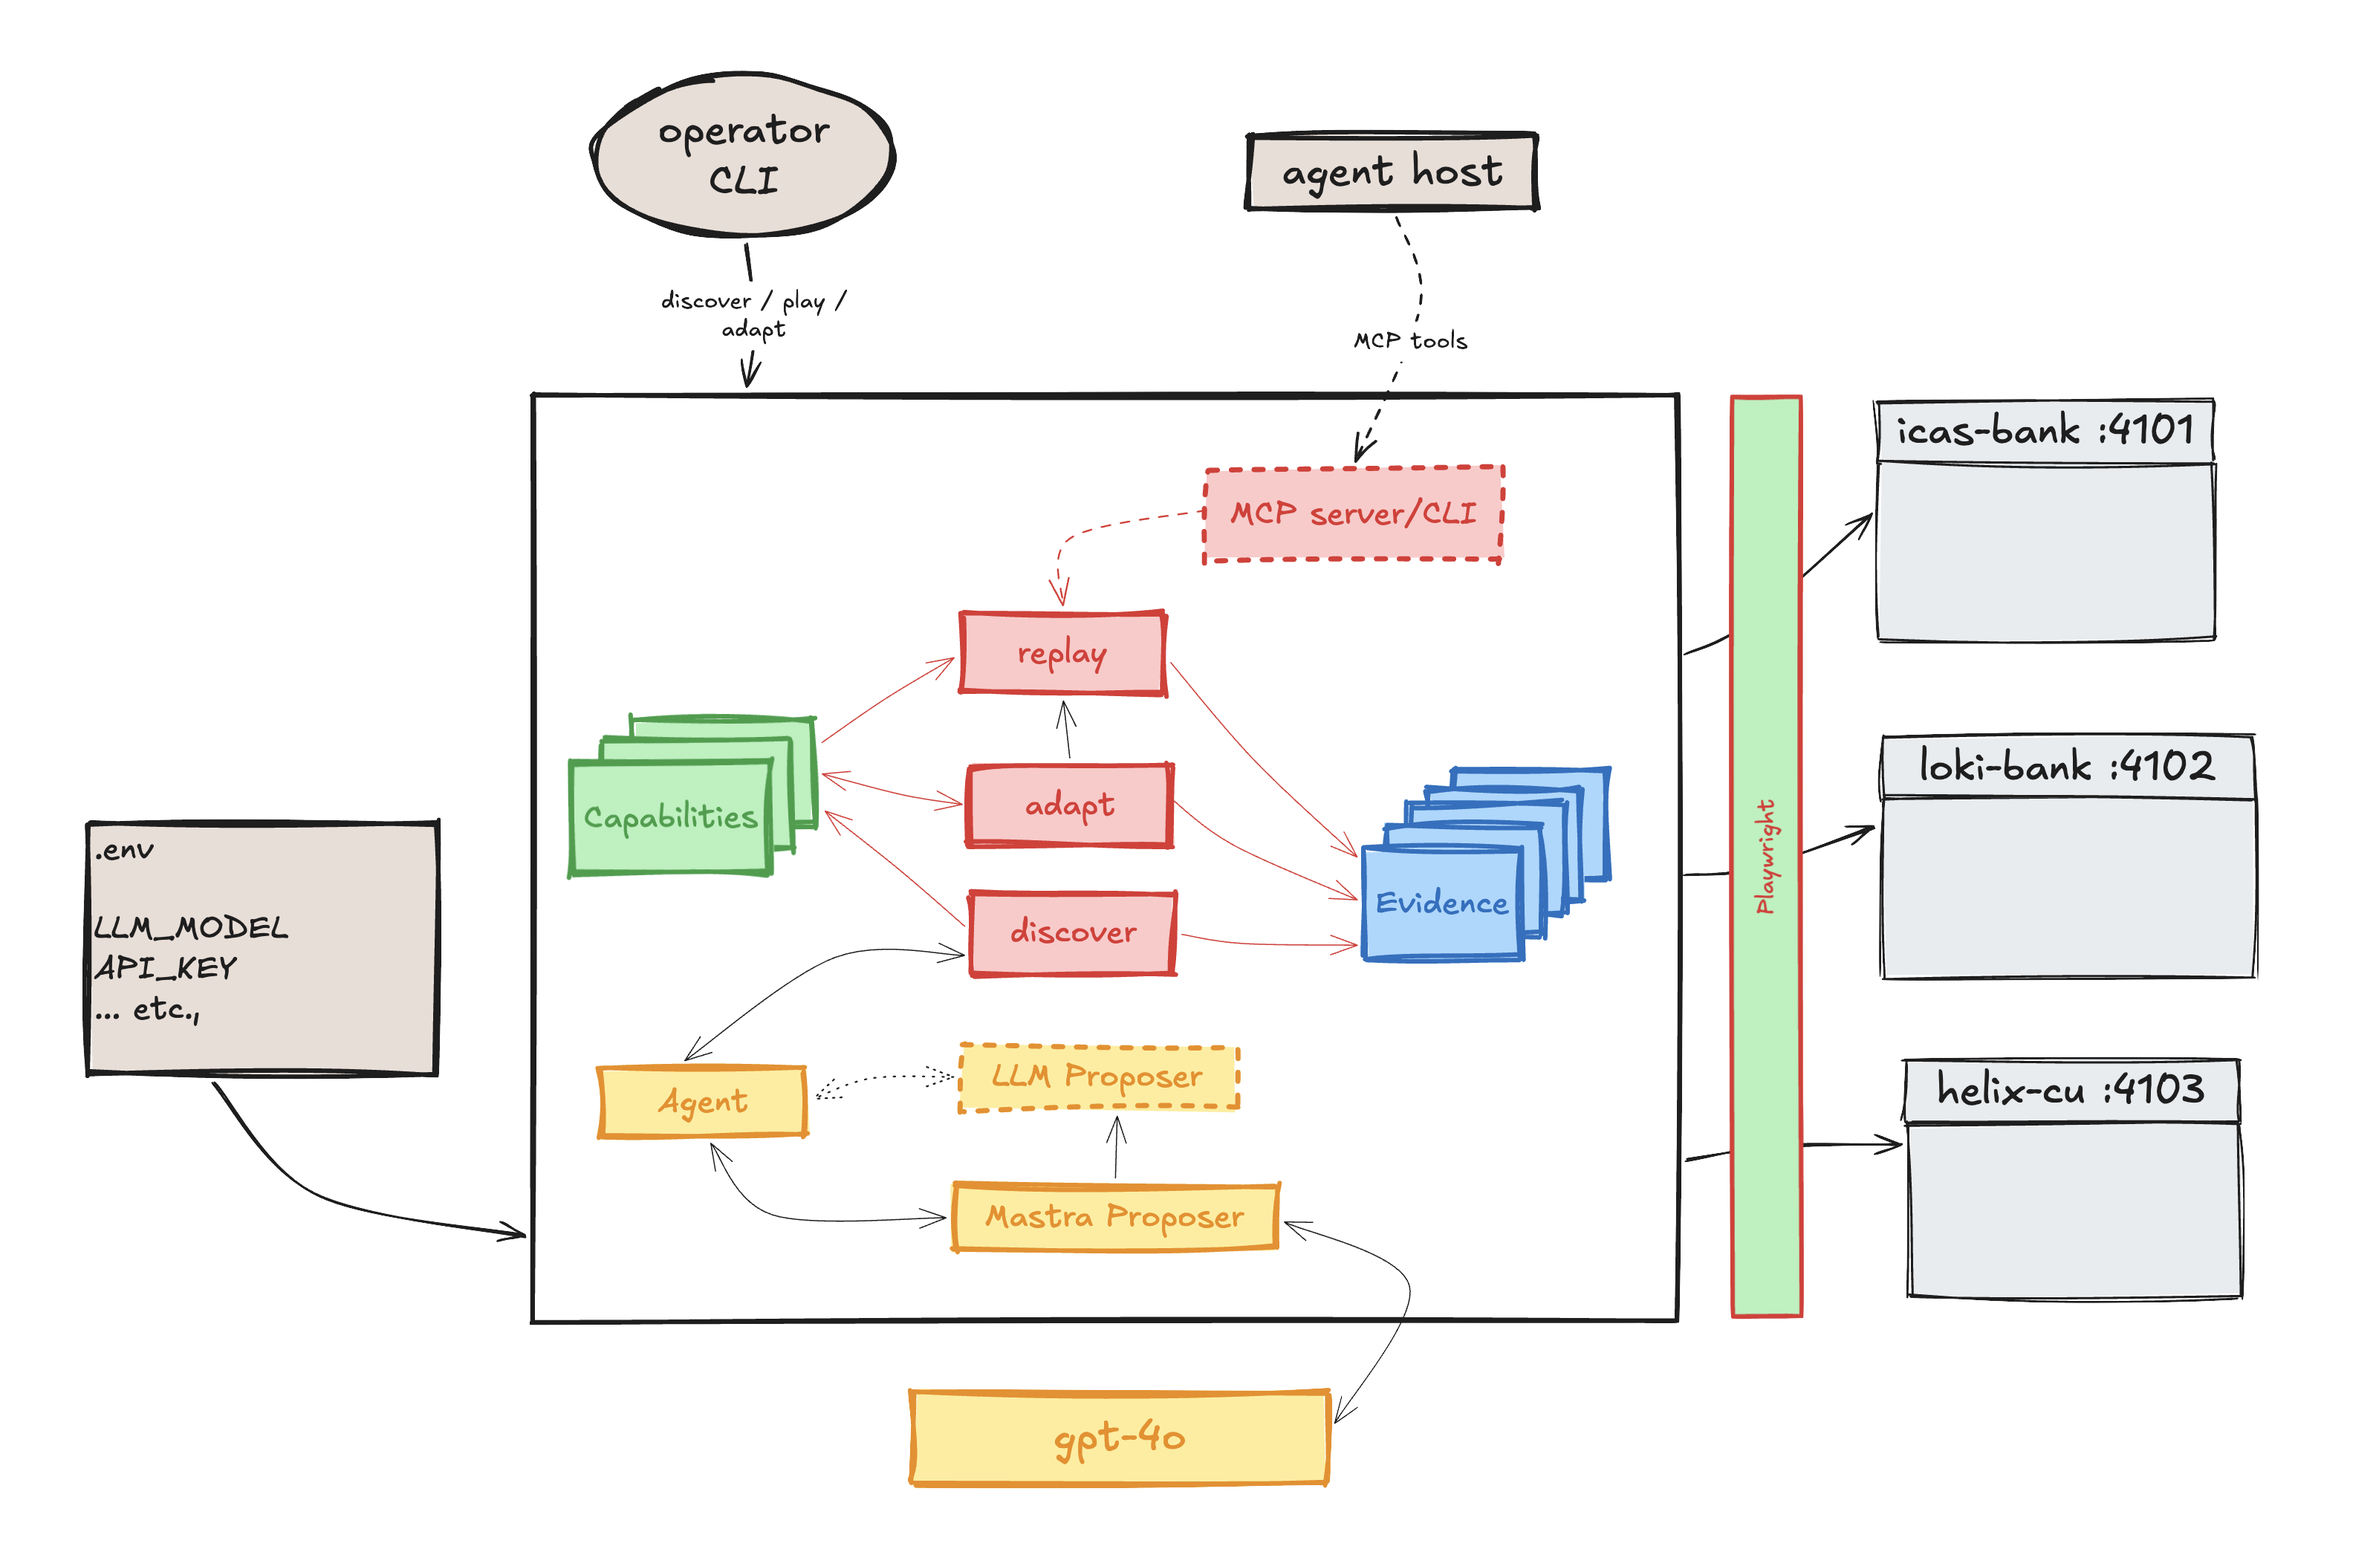
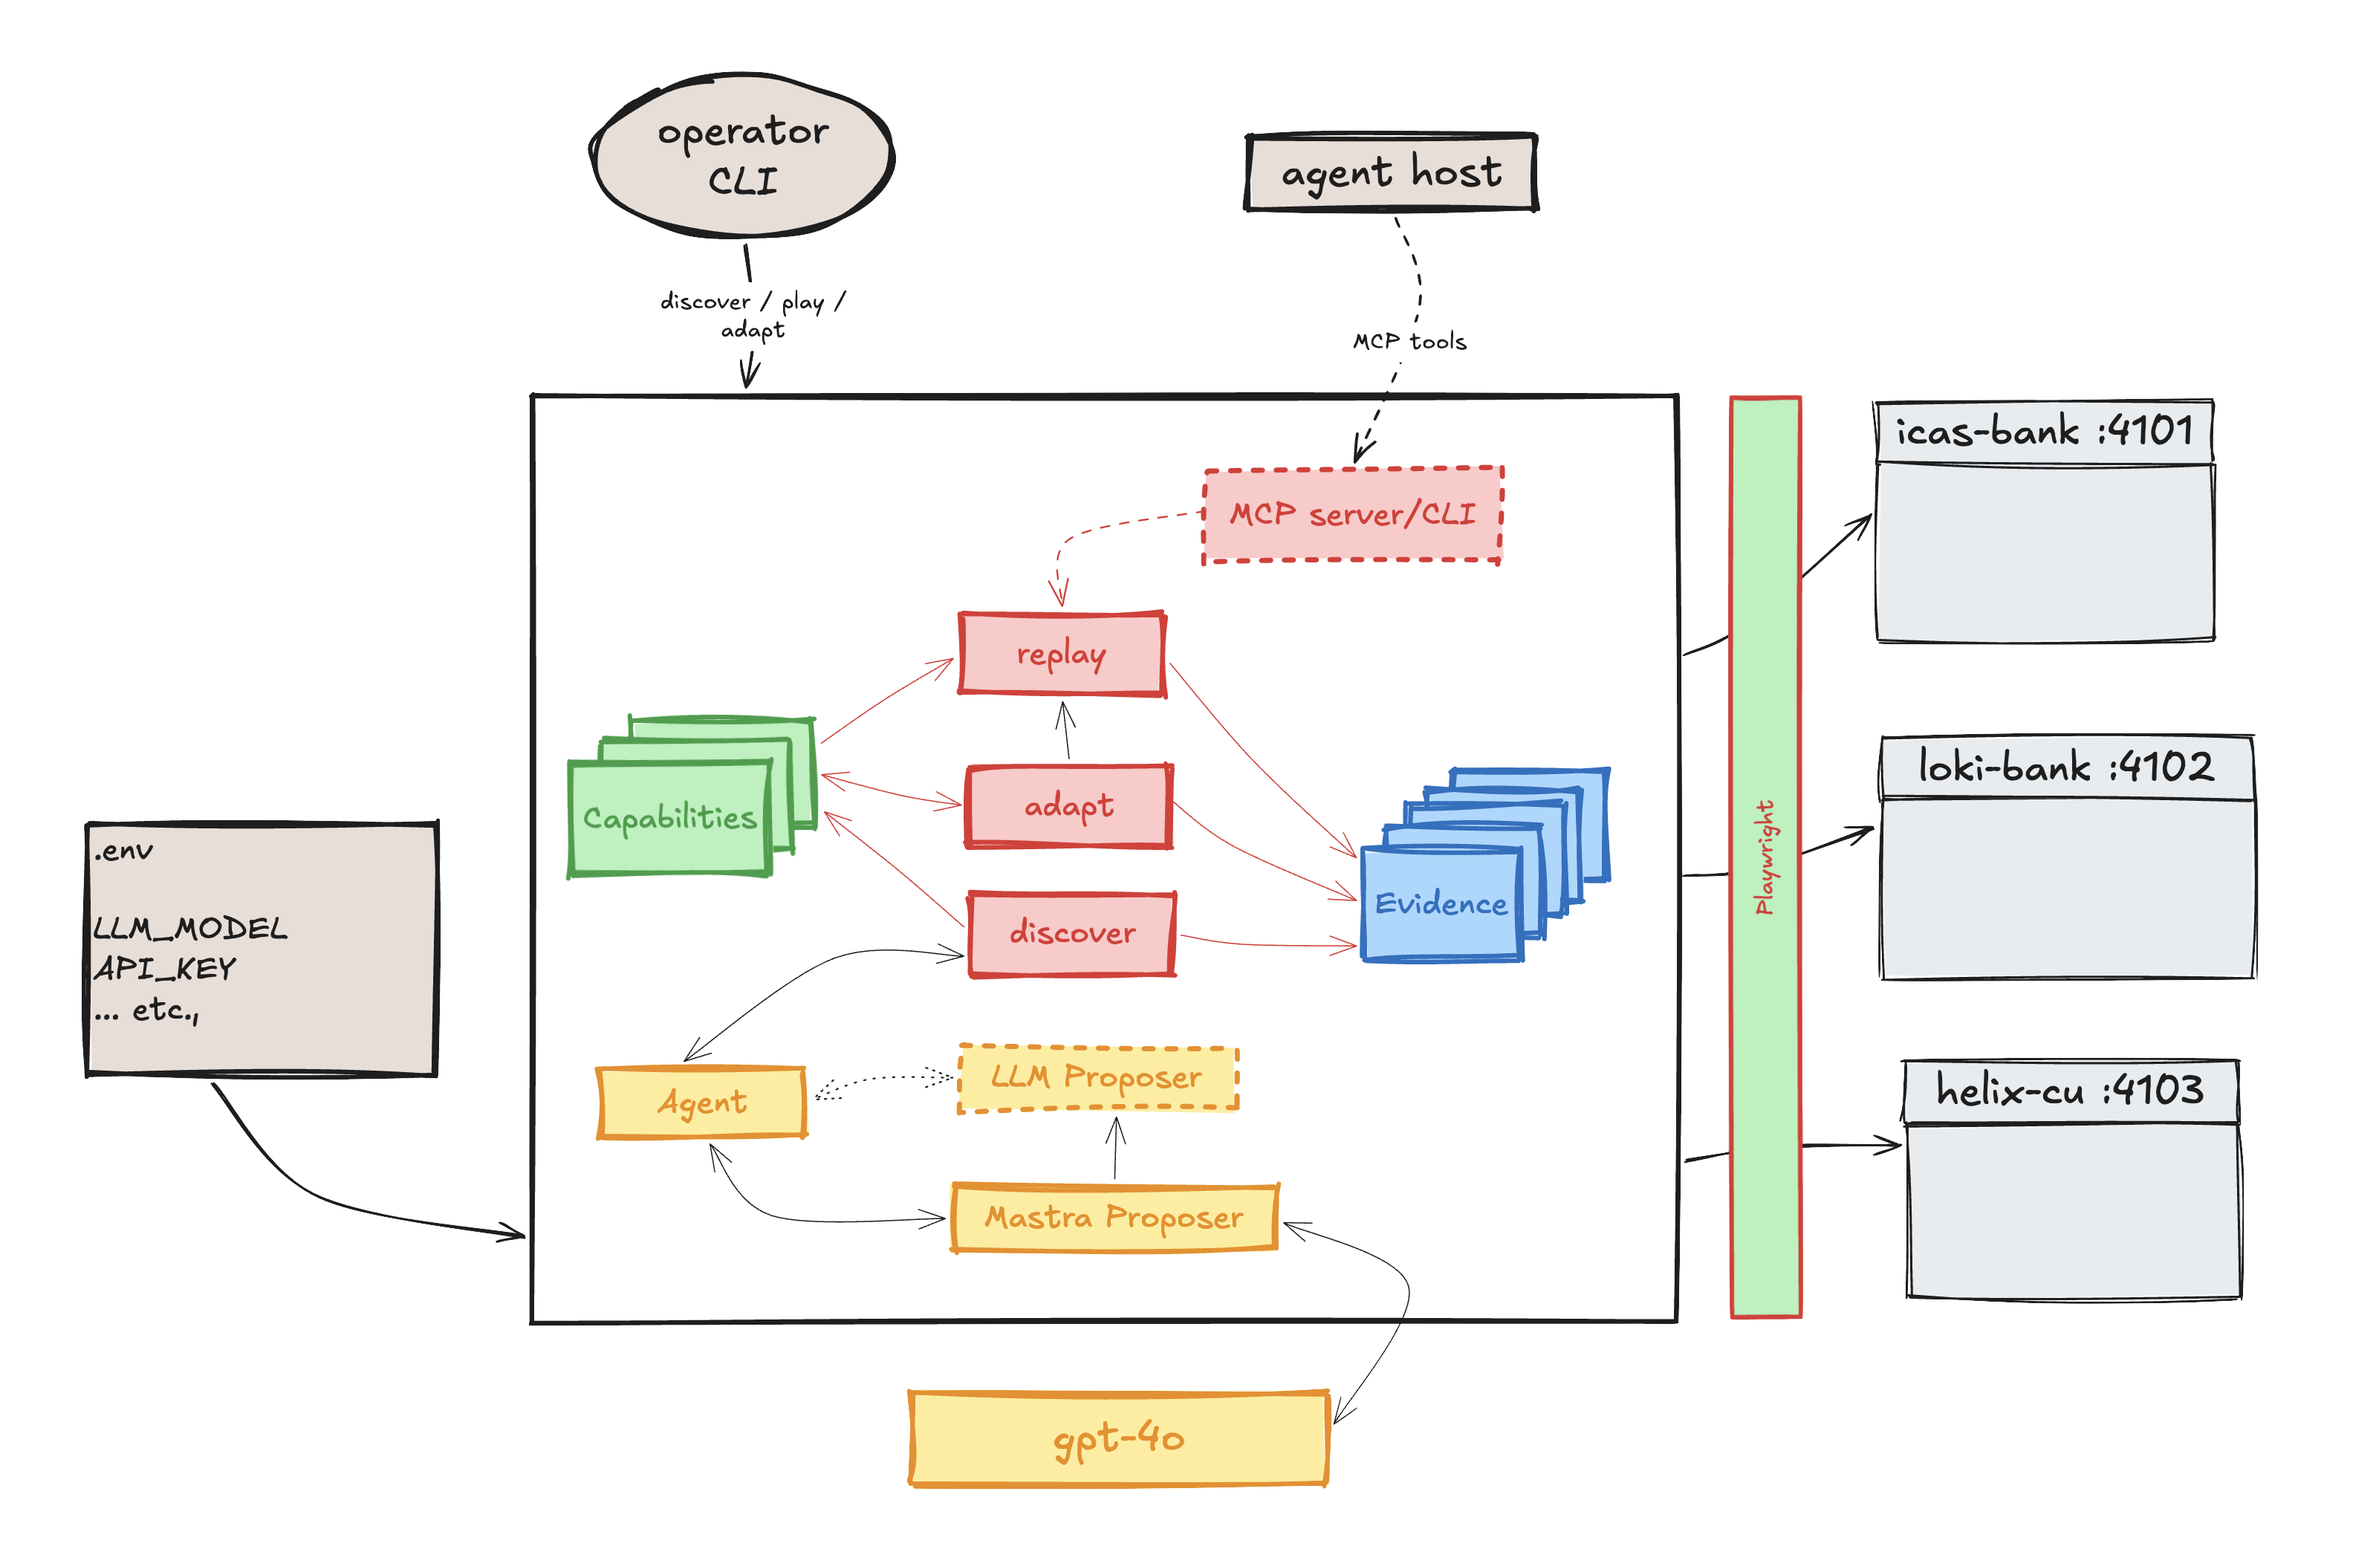
docs(system-design): update system design documentation with new architecture details and diagram
This commit enhances the system design documentation by adding a high-level overview of the ICAS architecture, including detailed descriptions of the capabilities, apps, and evidence components. The updated documentation clarifies the roles of the operator and agent, and introduces a new diagram to visually represent the system context. Additionally, the legend for Mermaid diagrams has been refined for better understanding.

diff --git a/docs/00-system-design.md b/docs/00-system-design.md
@@ -1,6 +1,8 @@
 # 00 — System Design (visual)
 
-This note is the visual companion to the numbered design documents. It does not replace them. Contracts, schemas, and failure rules live in [`01`](01-system-overview.md)–[`12`](12-testing-and-demo.md). This file shows how those pieces sit together.
+This note is the visual companion to the numbered design documents. It does not replace them. Contracts, schemas, and failure rules live in [`01`](01-system-overview.md)–[`12`](12-testing-and-demo.md).
+
+The high-level picture is [`archdiagram.png`](archdiagram.png). Later sections add package-level Mermaid where a sequence or loop helps. Implementation status is in [`TODO.md`](../TODO.md) and in [§8 Scope](#8-scope-map).
 
 ICAS is a computer-use runtime for legacy banking UIs that do not expose useful APIs. The model spends reasoning only while a workflow is unknown. A successful discovery compiles into a reusable capability. Production execution is deterministic.
 
@@ -10,36 +12,15 @@ The artifact becomes the reusable capability.
 Replay executes the known capability.
 ```
 
-Unless a diagram is marked **stretch** or **not done**, it describes the designed system. Implementation status is in [`TODO.md`](../TODO.md) and in [§8 Scope](#8-scope-map).
-
 ---
 
 ## 1. How to read this file
 
-Each section is one concern: a short paragraph, one or two Mermaid diagrams, and a link to the detailed note. Shapes are a locked legend. Color is secondary; GitHub dark mode may wash fills. Shape plus label carry the meaning.
+§2 is the system context. Read the PNG first, then the keyed notes under it. Do not treat a box as demo-proven unless §8 says so. Phase 8 still requires real discovery/replay artifacts; do not hand-author `capabilities/` to fake that proof.
 
-Do not treat a box as “implemented and demo-proven” unless §8 says so. Phase 8 still requires real discovery/replay artifacts; do not hand-author `capabilities/` to fake that proof.
+Dashed outlines in the PNG are in-repo stretch (MCP, optional LLM repair). Solid red is the must-have discover / adapt / replay path.
 
-### Shape legend
-
-```mermaid
-flowchart LR
-  subgraph legend["Legend"]
-    direction TB
-    app([thin app / CLI])
-    mod[runtime module]
-    seam(interface / seam)
-    art[(on-disk artifact)]
-    ev[/run evidence/]
-    llm{{LLM / model}}
-    gate{gate / decision}
-    human((human))
-    ext[[external UI / tenant]]
-  end
-
-  classDef optional stroke-dasharray: 6 4
-  classDef todo stroke-dasharray: 2 2
-```
+Later Mermaid diagrams use this legend:
 
 | Kind | Shape | Examples |
 |---|---|---|
@@ -51,155 +32,56 @@ flowchart LR
 | LLM / model | hexagon | `CandidateProposer`, `RepairProposer` |
 | Gate / decision | diamond | `PolicyGuard`, locator found?, enrolled? |
 | Human | circle | operator, CLI prompt, browser takeover |
-| External UI | subroutine | `icas-bank`, `loki-bank`, headed browser |
-
-Line and subgraph conventions:
+| External UI | subroutine | tenant apps, headed browser |
 
 - **solid** — must-have path
-- **dashed** (`-.->`, dashed subgraph) — in-repo stretch (`--assist`, `icas-adapt`, MCP)
+- **dashed** — stretch (`--assist`, `icas-adapt`, MCP)
 - **dotted** + `TODO` in the label — designed, not done (see §8)
 
 ---
 
 ## 2. System context
 
+![ICAS system context](archdiagram.png)
+
 An operator runs ICAS against synthetic tenant apps. An agent host is an optional second caller through MCP. There is no production co-browsing console, no worker queue, and no real bank.
 
-`capabilities/` is the persistent catalog on the ICAS boundary: discover and adapt write it; replay and MCP read it. `evidence/` is run-scoped output only (traces, logs, screenshots). It is not an input to the next run.
+**Callers.** The operator CLI (top) issues discover, play, or adapt. Play is `icas-play`; the picture labels the same path **replay** because that CLI only runs `ReplayEngine`. The agent host is dashed: it does not drive the browser itself. It calls MCP tools on `icas-mcp`. `.env` is model transport (`ICAS_DISCOVERY_LLM_*` / `ICAS_ASSIST_LLM_*`: `MODEL`, `API_KEY`, optional `BASE_URL` and sampling). It is not a second runtime.
 
-```mermaid
-flowchart TB
-  operator((operator))
-  host([agent host])
+**ICAS (white box).** Three columns:
 
-  subgraph icas["ICAS"]
-    direction LR
+- **Capabilities** (green) — persistent catalog. Discover and adapt write it. Replay and MCP read it.
+- **Apps** (middle, red) — `MCP server/CLI` is dashed (stretch). Under it: **replay**, **adapt**, **discover**. Discover is the only path that must use an LLM.
+- **Evidence** (blue) — run-scoped traces, logs, screenshots. Every discover / adapt / replay writes it. It is not an input to the next run.
 
-    subgraph colL["catalog"]
-      caps[(capabilities/)]
-    end
+**Agent and model (yellow).** Discover talks to **Agent**, which talks to **Mastra Proposer**. Mastra is the LLM/tool layer only; search state stays in ICAS. The dashed **LLM proposer** is the `--assist` / repair seam (`RepairProposer`). Strict replay does not use it. The default hosted model in the picture is **gpt-4o**; a local OpenAI-compatible server is the same seam with `BASE_URL`.
 
-    subgraph colM["apps"]
-      direction TB
-      discover["discover"]
-      play["  play  "]
-      adapt[" adapt  "]
-      mcp["  MCP   "]
-      discover --> play
-      play --> adapt
-      adapt --> mcp
-    end
+**Surface.** The green **Playwright** bar is the implemented `Surface`, not the artifact model. It opens the three synthetic tenants: `icas-bank` (`:4101`), `loki-bank` (`:4102`), and `helix-cu` (`:4103`). icas-bank and Loki Bank are the same fictional Vendor+Product (`icas-bank` / `icas-bank`); Loki is a second install with label/nav drift. Helix CU is a different vendor/product with a share-hold workflow.
 
-    subgraph colR["runs"]
-      evid[/evidence/]
-    end
-
-    colL --> colM
-    colM --> colR
-  end
-
-  bank[["icas-bank :4101"]]
-  loki[["loki-bank :4102"]]
-  helix[["helix-cu :4103"]]
-
-  operator -->|"discover / play / adapt"| icas
-  host -.->|"MCP tools"| icas
-  icas --> bank
-  icas --> loki
-  icas --> helix
-
-  classDef optional stroke-dasharray: 6 4
-  classDef icasBox fill:#f8fafc,stroke:#334155,stroke-width:2px
-  classDef appBox fill:#ffffff,stroke:#334155
-  class host optional
-  class icas icasBox
-  class discover,play,adapt,mcp appBox
-  linkStyle 0,1,2 stroke:none
-```
-
-Both icas-bank and Loki Bank are the same fictional Vendor+Product (`icas-bank` / `icas-bank`). Loki Bank is a second install with small label/nav drift, not a second product. Helix CU (`tenants/helix-cu`) is a separate vendor/product with a share-hold workflow. See [`01-system-overview.md`](01-system-overview.md) and [`06-multi-tenant-and-adaptation.md`](06-multi-tenant-and-adaptation.md).
+See [`01-system-overview.md`](01-system-overview.md) and [`06-multi-tenant-and-adaptation.md`](06-multi-tenant-and-adaptation.md).
 
 ---
 
 ## 3. High-level architecture
 
-Apps stay thin. Behavior lives in packages. The catalog is the join between authoring and execution. Replay never reads `capabilities/` itself; it receives an **effective** capability from `CapabilityResolver`. Playwright is the first `Surface` implementation, not the artifact model.
+The PNG is the architecture. This table maps its boxes onto repo packages. Apps stay thin. Behavior lives in packages. Replay never reads `capabilities/` itself; it receives an **effective** capability from `CapabilityResolver`.
 
-```mermaid
-flowchart TB
-  subgraph apps["Apps"]
-    direction LR
-    agent([icas-agent])
-    play([icas-play])
-    adapt([icas-adapt])
-    mcp([icas-mcp])
-  end
+| In the picture | In the repo |
+|---|---|
+| operator CLI | `apps/icas-agent`, `icas-play`, `icas-adapt` |
+| agent host → MCP tools | `apps/icas-mcp` (stretch) |
+| capabilities | `@icas/capability`: `FileSystemCapabilityRegistry`, `CapabilityResolver` |
+| discover | `@icas/discovery`: `DiscoveryAgent`, `CapabilityCompiler` |
+| replay | `@icas/replay`: `ReplayEngine` |
+| adapt | `apps/icas-adapt` over replay + bounded discover |
+| Agent / Mastra proposer | discovery LLM adapter (`CandidateProposer`) |
+| dashed LLM proposer | `--assist` `RepairProposer`; `@icas/replay` stays model-free |
+| evidence | `@icas/evidence` (redact, then persist) |
+| Playwright | `@icas/surface` + `@icas/browser` (`PlaywrightSurface`) |
+| gpt-4o / `.env` | `ICAS_DISCOVERY_LLM_*` and `ICAS_ASSIST_LLM_*` |
+| tenant UIs | `tenants/icas-bank`, `loki-bank`, `helix-cu` |
 
-  subgraph authoring["Authoring"]
-    disc[DiscoveryAgent]
-    llmDisc{{CandidateProposer}}
-    compiler[CapabilityCompiler]
-    disc --> llmDisc
-    disc --> compiler
-  end
-
-  subgraph catalog["Catalog"]
-    registry(CapabilityRegistry)
-    resolver[CapabilityResolver]
-    base[("capabilities/id/capability.json")]
-    ov[("overrides/tenant.json")]
-    registry --> base
-    registry --> ov
-    resolver --> registry
-  end
-
-  subgraph execution["Execution"]
-    engine[ReplayEngine]
-    assist{{RepairProposer}}
-    engine -.-> assist
-  end
-
-  subgraph shared["Shared runtime"]
-    policy[PolicyGuard]
-    redactor[Redactor]
-    handoff[HandoffController]
-    evidence[EvidenceWriter]
-  end
-
-  subgraph surfaceBox["Surface"]
-    seam(Surface)
-    pw[PlaywrightSurface]
-    seam --> pw
-  end
-
-  subgraph tenants["Tenants"]
-    bank[["icas-bank"]]
-    loki[["loki-bank"]]
-    helix[["helix-cu"]]
-  end
-
-  agent --> disc
-  compiler --> registry
-  play --> resolver
-  mcp -.-> resolver
-  adapt -.-> resolver
-  adapt -.-> disc
-  resolver --> engine
-  engine --> policy
-  disc --> policy
-  policy --> seam
-  engine --> handoff
-  disc --> handoff
-  disc --> evidence
-  engine --> evidence
-  evidence --> redactor
-  pw --> bank
-  pw --> loki
-  pw --> helix
-
-  classDef optional stroke-dasharray: 6 4
-  class mcp,adapt,assist optional
-```
+Shared runtime that the picture folds into the white box: `PolicyGuard`, `Redactor`, `HandoffController`. Prompt policy instructs the model; the guard enforces execute; the redactor runs before evidence leaves memory.
 
 `FileSystemCapabilityRegistry({ root })` is the only catalog backend. The `CapabilityRegistry` interface stays; a REST/DB backend is out of scope. See [`02-repository-structure.md`](02-repository-structure.md).
 
